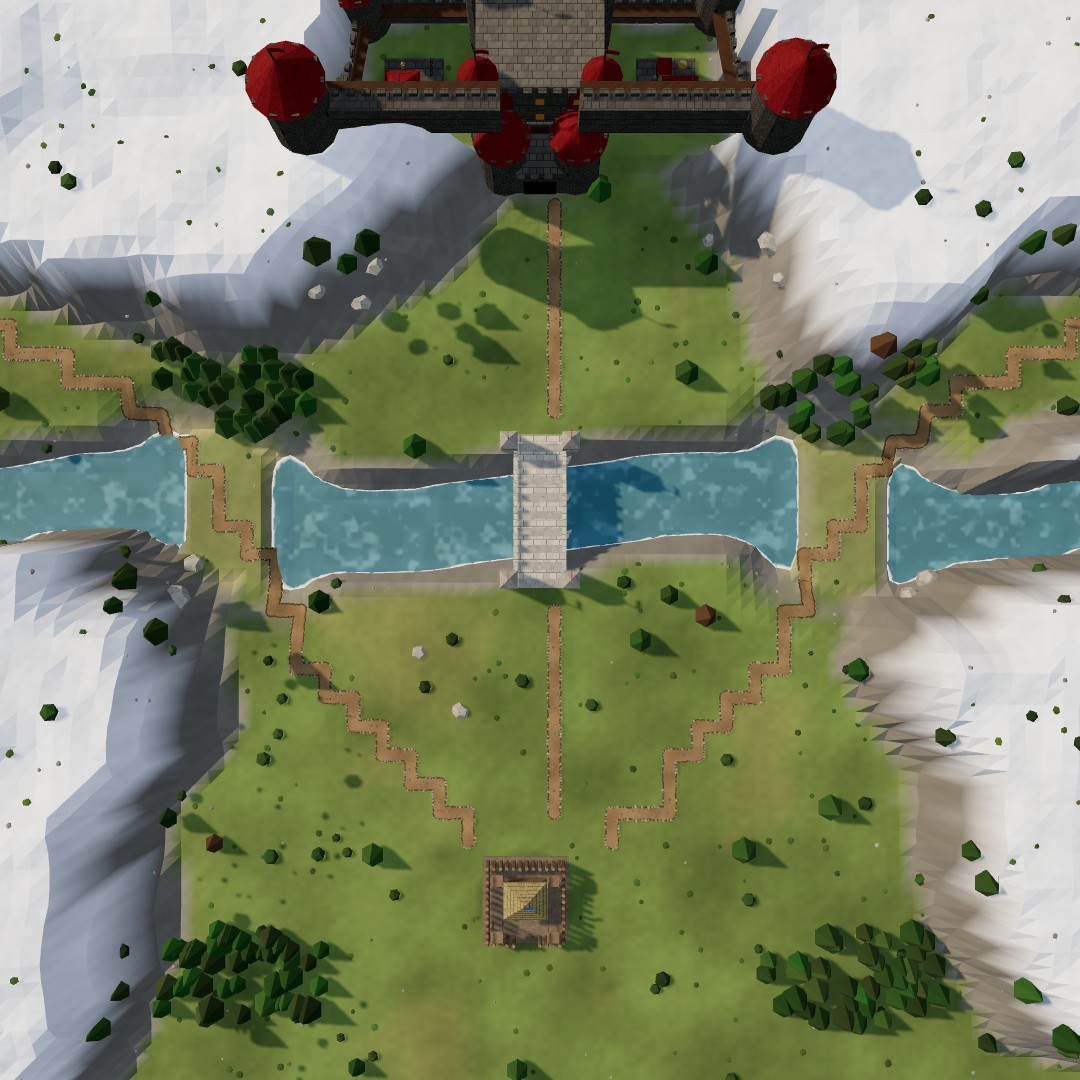
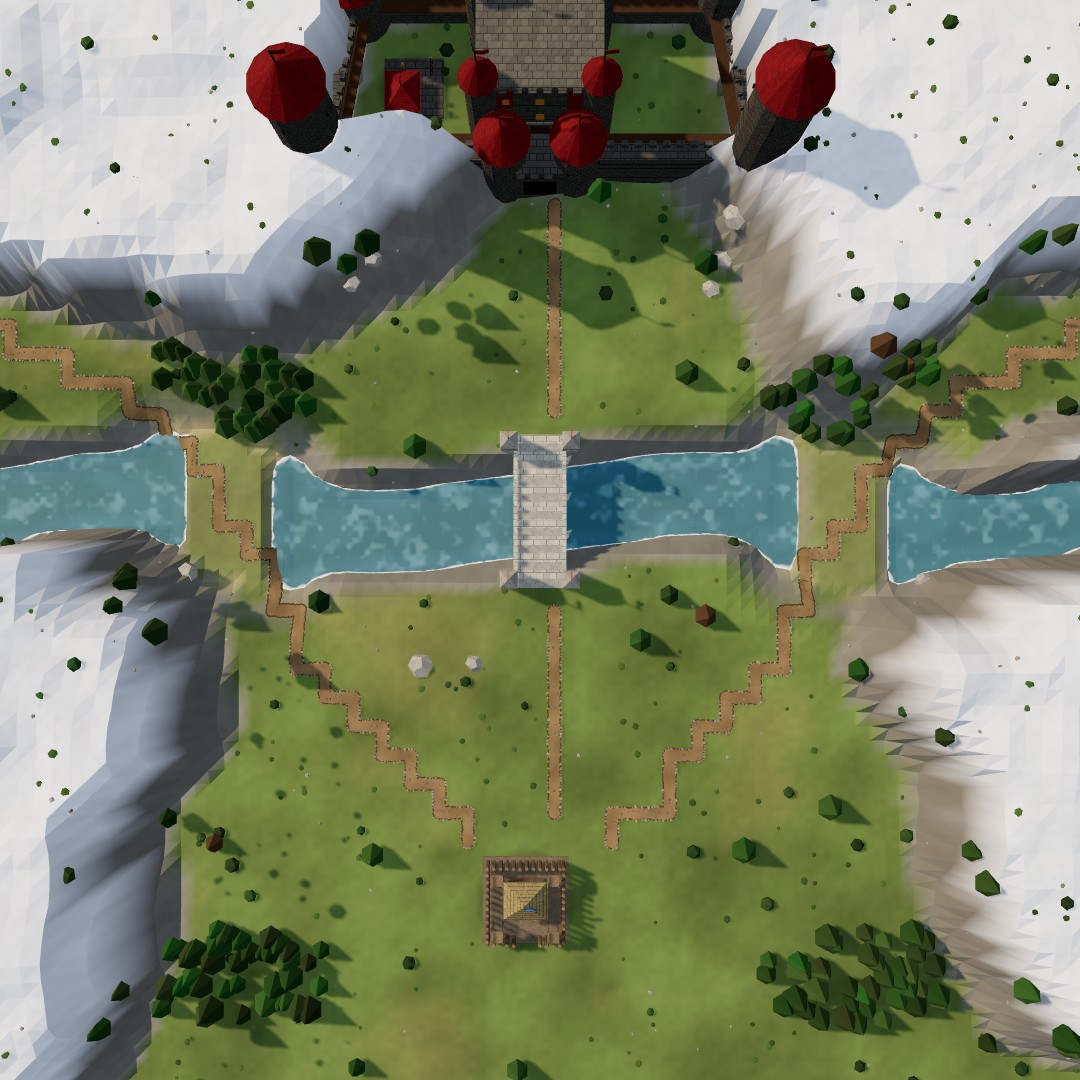
Warlord's Hold: walls, towers and keep reach the ground on the steep sides, no merlons cutting the roofs, stables removed
Claude-Session: https://claude.ai/code/session_01AE8sRRsVdpH9ETfQvtppox

diff --git a/index.html b/index.html
@@ -6776,37 +6776,46 @@ function buildRaiderKeep(g) {
 }
 function buildWarlordsHold(g) {
   const P = HOLD_POLY, [gx, gz] = HOLD_GATE, cx = 40, cz = 9.5, Y = (x, z) => hAt(x, z), y0 = Y(cx, cz);
+  // the hold stands on its crag's flat top, but its walls sit on the crag's edge where the ground falls away outside: every wall piece,
+  // tower and the keep reach down to the lowest ground under them (Jack saw the east side floating), their tops stay level
+  const low = (x, z, r) => { let m = Y(x, z); for (let i = 0; i < 12; i++) { const a = i / 12 * Math.PI * 2; for (const f of [.5, 1, 1.6]) m = Math.min(m, Y(x + Math.cos(a) * r * f, z + Math.sin(a) * r * f)); } return m - 1.2; };
+  const TOP = y0 + 4;   // the curtain walls' top all round
   const merlons = (ax, az, bx, bz, y, nx, nz) => { const L = Math.hypot(bx - ax, bz - az); for (let t = .45; t < L - .3; t += .9) { const x = ax + (bx - ax) * t / L - nx * .4, z = az + (bz - az) * t / L - nz * .4; const m = box(.5, .55, .32, M.stone, x, y + .27, z); m.rotation.y = -Math.atan2(bz - az, bx - ax); g.add(m); } };
-  const roundTower = (x, z, r, h, roof = true) => { const y = Y(x, z);
-    g.add(cyl(r, r * 1.08, h, 14, M.stone, x, y + h / 2 - .3, z)); g.add(cyl(r + .18, r + .12, .45, 14, M.stone2, x, y + h - .1, z));
-    for (let i = 0; i < 10; i++) { const a = i / 10 * Math.PI * 2; g.add(box(.42, .5, .3, M.stone, x + Math.cos(a) * (r + .05), y + h + .35, z + Math.sin(a) * (r + .05))); }
-    for (let i = 0; i < 4; i++) { const a = i / 4 * Math.PI * 2 + .4; g.add(box(.12, .55, .08, M.dark, x + Math.cos(a) * (r + .02), y + h * .55, z + Math.sin(a) * (r + .02))); }   // arrow slits
-    if (roof) { g.add(coneRoof(r + .35, r * 1.6, 14, M.roofBlue, x, y + h + .3 + r * .8, z)); roofFlag(g, x, y + h + .3 + r * 1.6, z, .6); } };
-  for (let i = 0; i < P.length; i++) {   // curtain walls of masonry with a wall-walk behind merlons
+  // round towers: from the lowest ground under them up to a level top; a roofed tower has no merlons (they poked through its cone)
+  const roundTower = (x, z, r, h, roof = true) => { const b = low(x, z, r + .3), top = Y(x, z) + h;
+    g.add(cyl(r, r * 1.08, top - b, 14, M.stone, x, (top + b) / 2, z)); g.add(cyl(r + .18, r + .12, .45, 14, M.stone2, x, top - .1, z));
+    if (!roof) for (let i = 0; i < 10; i++) { const a = i / 10 * Math.PI * 2; g.add(box(.42, .5, .3, M.stone, x + Math.cos(a) * (r + .05), top + .35, z + Math.sin(a) * (r + .05))); }
+    for (let i = 0; i < 4; i++) { const a = i / 4 * Math.PI * 2 + .4; g.add(box(.12, .55, .08, M.dark, x + Math.cos(a) * (r + .02), top - h * .45, z + Math.sin(a) * (r + .02))); }   // arrow slits
+    if (roof) { g.add(coneRoof(r + .35, r * 1.6, 14, M.roofBlue, x, top + .12 + r * .8, z)); roofFlag(g, x, top + .12 + r * 1.6, z, .6); } };
+  for (let i = 0; i < P.length; i++) {   // curtain walls of masonry with a wall-walk behind merlons, built in short pieces down to the ground
     const [ax, az] = P[i], [bx, bz] = P[(i + 1) % P.length], L = Math.hypot(bx - ax, bz - az), ux = (bx - ax) / L, uz = (bz - az) / L;
     let nx = -uz, nz = ux; if ((cx - ax) * nx + (cz - az) * nz < 0) { nx = -nx; nz = -nz; }
-    const y = Math.min(Y(ax, az), Y(bx, bz)), gapT = (gx - ax) * ux + (gz - az) * uz, onGate = Math.abs((gx - ax) * nx + (gz - az) * nz) < .5 && gapT > 0 && gapT < L;
+    const gapT = (gx - ax) * ux + (gz - az) * uz, onGate = Math.abs((gx - ax) * nx + (gz - az) * nz) < .5 && gapT > 0 && gapT < L;
     const runs = onGate ? [[0, gapT - 2.3], [gapT + 2.3, L]] : [[0, L]];
-    for (const [t0, t1] of runs) { const sx = ax + ux * t0, sz = az + uz * t0, ex = ax + ux * t1, ez = az + uz * t1;
-      along(g, sx, sz, ex, ez, 1.1, 4, M.stone, y - .4); merlons(sx, sz, ex, ez, y + 3.6, -nx, -nz);
-      along(g, sx + nx * .9, sz + nz * .9, ex + nx * .9, ez + nz * .9, .8, .1, DOOR_M[3], y + 3.1); }
+    for (const [t0, t1] of runs) {
+      const n = Math.max(1, Math.round((t1 - t0) / 1.5)), d = (t1 - t0) / n;
+      for (let k = 0; k < n; k++) { const ta = t0 + k * d, tb = ta + d, mx = ax + ux * (ta + tb) / 2, mz = az + uz * (ta + tb) / 2, b = low(mx, mz, 1.8);
+        along(g, ax + ux * ta, az + uz * ta, ax + ux * (tb + .02), az + uz * (tb + .02), 1.1, TOP - b, M.stone, b); }
+      const sx = ax + ux * t0, sz = az + uz * t0, ex = ax + ux * t1, ez = az + uz * t1;
+      merlons(sx, sz, ex, ez, TOP, -nx, -nz);
+      along(g, sx + nx * .9, sz + nz * .9, ex + nx * .9, ez + nz * .9, .8, .1, DOOR_M[3], TOP - .5); }
     roundTower(ax, az, 1.9, 6.4);
   }
   // the gatehouse: two round towers either side of an arched passage, a portcullis
   for (const sx of [-1, 1]) roundTower(gx + sx * 2.4, gz, 1.5, 6.8);
-  { const y = Y(gx, gz); g.add(box(3.4, 4.6, 2.6, M.stone, gx, y + 2, gz)); g.add(box(2.2, 2.8, 2.7, M.dark, gx, y + 1.1, gz + .02));
+  { const y = Y(gx, gz), b = low(gx, gz, 1.6); g.add(box(3.4, y + 4.3 - b, 2.6, M.stone, gx, (y + 4.3 + b) / 2, gz)); g.add(box(2.2, 2.8, 2.7, M.dark, gx, y + 1.1, gz + .02));
     for (let k = -.8; k <= .81; k += .4) g.add(box(.06, 2.6, .06, M.iron, gx + k, y + 1.2, gz + 1.32)); g.add(box(2, .08, .06, M.iron, gx, y + 1.9, gz + 1.32));
     merlons(gx - 1.7, gz + 1.25, gx + 1.7, gz + 1.25, y + 4.3, 0, -1); }
   // the keep: a tall masonry block, four corner turrets with cone roofs, two rows of windows, a framed door, hanging banners
-  g.add(box(7.4, 9.5, 6.2, M.stone, cx, y0 + 4.5, cz));
-  g.add(box(7.8, .4, 6.6, M.stone2, cx, y0 + 9.3, cz)); merlons(cx - 3.9, cz + 3.3, cx + 3.9, cz + 3.3, y0 + 9.5, 0, -1); merlons(cx - 3.9, cz - 3.3, cx + 3.9, cz - 3.3, y0 + 9.5, 0, 1);
-  for (const [dx, dz] of [[-1, -1], [1, -1], [-1, 1], [1, 1]]) { const tx = cx + dx * 3.7, tz = cz + dz * 3.1;
-    g.add(cyl(.95, 1, 11, 12, M.stone, tx, y0 + 5.2, tz)); g.add(coneRoof(1.25, 2.4, 12, M.roofBlue, tx, y0 + 11.9, tz)); roofFlag(g, tx, y0 + 13.1, tz, .6); }
+  { const b = low(cx, cz, 3.8); g.add(box(7.4, y0 + 9.3 - b, 6.2, M.stone, cx, (y0 + 9.3 + b) / 2, cz)); }
+  g.add(box(7.8, .4, 6.6, M.stone2, cx, y0 + 9.3, cz)); merlons(cx - 2.7, cz + 3.3, cx + 2.7, cz + 3.3, y0 + 9.5, 0, -1); merlons(cx - 2.7, cz - 3.3, cx + 2.7, cz - 3.3, y0 + 9.5, 0, 1);
+  for (const [dx, dz] of [[-1, -1], [1, -1], [-1, 1], [1, 1]]) { const tx = cx + dx * 3.7, tz = cz + dz * 3.1, b = low(tx, tz, 1);
+    g.add(cyl(.95, 1, y0 + 10.7 - b, 12, M.stone, tx, (y0 + 10.7 + b) / 2, tz)); g.add(coneRoof(1.25, 2.4, 12, M.roofBlue, tx, y0 + 11.9, tz)); roofFlag(g, tx, y0 + 13.1, tz, .6); }
   for (const r of [3.6, 6.4]) for (const k of [-2.2, 0, 2.2]) g.add(box(.55, .9, .06, M.glow, cx + k, y0 + r, cz + 3.12));
   g.add(box(1.3, 2.1, .1, DOOR_M[3], cx, y0 + 1.05, cz + 3.13)); for (const sx of [-1, 1]) g.add(box(.25, 2.4, .25, M.stone2, cx + sx * .8, y0 + 1.2, cz + 3.15)); g.add(box(1.85, .3, .3, M.stone2, cx, y0 + 2.4, cz + 3.15));
   for (const sx of [-1, 1]) { const b = box(1, 3, .05, M.flag, cx + sx * 2.2, y0 + 6.8, cz + 3.15); b.castShadow = true; g.add(b); }
-  // inside the walls: the town's garrison and royal stables
-  placeModel(g, 'barracks', 3, 31.5, 9.5, 1, Math.PI / 2); placeModel(g, 'stables', 3, 48.5, 9.5, 1, -Math.PI / 2);
+  // inside the walls: the town's garrison (the royal stables were dropped: Jack)
+  placeModel(g, 'barracks', 3, 31.5, 9.5, 1, Math.PI / 2);
 }
 function placeBossScenery() {
   if (bossMesh) { scene.remove(bossMesh); bossMesh = null; }

diff --git a/CLAUDE.md b/CLAUDE.md
@@ -81,7 +81,7 @@ The whole game is currently one self-contained file: `index.html` (~165 KB, thre
 - **Map size per stage** (`MAP_N`, `setMapSize(n)` at the top of `startGame`): every stage is 28 × 28 cells (56 m) except the boss stages, 40 × 40 (80 m; Jack asked for them big). `N`, `SIZE` and `V` are `let`; every buffer is allocated once at the largest size (`N_MAX` 40, `V_MAX` 81: heights, cells, regions, bridges, the tree and path-stone instances) and indexed with the current `N`/`V`; on a size change `setMapSize` re-lays the ground's vertex grid and triangles (`terrainGrid`), the Grid overlay (`gridLines`), the water plane, the sun and its shadow box, and `CAM_LIM.hi`. The water's bed texture `hTex` is always `V_MAX` wide (the shader divides by `V_MAX`).
 - **Bosses** (`ENEMY.chief`, `ENEMY.warlord`, `boss`: drawn that much bigger; always sent at tier 3; renders in `design/characters/bosses.png`): the **Raider Chief** on foot (hp 520 × 2.3, dmg 14 × 1.65, a sword and a big red round shield, a horned helm with a gold band, a long red cloak) and the **Warlord** mounted (hp 820 × 2.3, dmg 18 × 1.65, ×2 speed, a gold crown of points and a red plume on the great helm, a red heater shield rimmed in gold, the cloak, a horse in dark barding with red flank cloths and a gilded face plate); gear from `bossGear`. Both ride or march for the castle (`pickTarget`), come last of their night's column (`startNight`), get a bigger health bar, and their arrival shows a banner with their name and "Boss" and a log line. Gallery row "Bosses" (drawn at their own size).
 - **Raider Keep** (`MAP` 'keep', Stage 11, boss, 80 m; from `design/stages/stage11-raider-keep.svg`): the raiders' keep at the top (`KEEP_POLY`, a six-sided yard on a rocky rise, gate at `KEEP_GATE`): the first layout's shape (Jack liked it) in the detail of the town's buildings (`buildRaiderKeep`, from `placeBossScenery`): sharpened palisade logs with rails and a wall-walk inside, the town's lookout tower at every corner, the town's timber gate (×1.5) flanked by two lookouts, a great tower (masonry with buttresses, a jettied timber-framed storey with windows, a shingled pyramid roof, a door, a roof flag), a log hall with a gable roof and a chimney, and the town's weapon racks, campfire and siege stores in the yard; everything darkened (`darkFort`: cloned materials × .26 linear, about half as bright on screen, the town's blue turned red; see-through flames left alone; cached in `darkMats`), so it never reads as the player's, a dry ditch below it open only at the gate (`KEEP_DITCH`), two roads from the gate round the burned village (`KEEP_RUINS`, blackened wall stubs) and dead trees (`bare` trees: trunks only, out of reach) to the town at the bottom (castle `KX/KZ` 41,67); ground red in the north, scorched in the middle, green in the south (`recolor`); green woods in the two south corners, plenty of stone. The keep, its yard and the ruins are scenery nobody walks or builds on (`sceneryAt`, in `canStand`, `cellPass`, `evaluate` "Occupied"). Raiders come round both sides of the fort (Jack: spawns west and east of it, 40% each) and a few out of its gate. Rules (`MAP_RULES.keep`): **7 nights** after a **10-minute first day** (Jack), 20–75 raiders a night with siege from night 3, the **Raider Chief** at the tail of night 7; days 600/120…; spawn gap .8 s; start gold 50 wood 30 stone 0 food 30; every building, tier 3 (win: survive; "break the keep" not built).
-- **Warlord's Hold** (`MAP` 'hold', Stage 12, final boss, 80 m; from `design/stages/stage12-warlords-hold.svg`): snowy mountains round the north and both sides (`HOLD_MTNS`, closed ground like Mountain pass's: `holdOpen` in `mapOpen`; snow from about 10.5 m on this map in `recolor`), the Warlord's hold on a crag at the top (`HOLD_POLY`, gate at `HOLD_GATE`; `buildWarlordsHold`): masonry curtain walls with merlons and a timber wall-walk, round corner towers (arrow slits, merlon crowns, cone roofs, roof flags), a gatehouse of two round towers round a dark arched passage with a portcullis, a tall keep with four cone-roofed corner turrets, two rows of windows, a framed door and hanging banners, and the town's tier-3 garrison and royal stables inside; darkened by `darkFort` (blue roofs and flags turn red), a river across the middle (`HOLD_RIVER`, flows west) with a **grand stone bridge** on the gate's road (`grand: true`, `w` 3.2: a wider deck, units walk all of it (`onDeck` reads `b.w`), tall stone towers with red flags at both ends, merlons on the parapets) and two plain land crossings where the passes cross (`HOLD_ICE`, wide grassy bars at .6 with gentle banks; they were icy white at first, Jack wanted a normal pathway), two mountain passes from the side edges (`HOLD_PASSES`), pines on the lower slopes and in the south corners (out-of-reach pines up the mountains), stone at the mountains' feet; castle `KX/KZ` 39,65. Raiders out of the hold's gate; from night 3 some down the west pass, from night 4 the east too. Rules (`MAP_RULES.hold`): **7 nights** after a **10-minute first day**, the **Warlord** and eight tier-3 horse swords (his mounted guard) on night 7; days 600/120…; spawn gap .75 s; start gold 50 wood 30 stone 0 food 30; every building, tier 3.
+- **Warlord's Hold** (`MAP` 'hold', Stage 12, final boss, 80 m; from `design/stages/stage12-warlords-hold.svg`): snowy mountains round the north and both sides (`HOLD_MTNS`, closed ground like Mountain pass's: `holdOpen` in `mapOpen`; snow from about 10.5 m on this map in `recolor`), the Warlord's hold on a crag at the top (`HOLD_POLY`, gate at `HOLD_GATE`; `buildWarlordsHold`): masonry curtain walls with merlons and a timber wall-walk, round corner towers (arrow slits, merlon crowns, cone roofs, roof flags), a gatehouse of two round towers round a dark arched passage with a portcullis, a tall keep with four cone-roofed corner turrets, two rows of windows, a framed door and hanging banners, and the town's tier-3 garrison inside (the royal stables were dropped: Jack); every wall piece (1.5 m sections), tower, the gatehouse and the keep reach down to the lowest ground under and just outside them (`low`), with level tops (`TOP`), so nothing floats where the crag falls away (Jack saw the east side floating); roofed towers have no merlons (they cut through the cones) and the keep's merlons stop short of its corner turrets; darkened by `darkFort` (blue roofs and flags turn red), a river across the middle (`HOLD_RIVER`, flows west) with a **grand stone bridge** on the gate's road (`grand: true`, `w` 3.2: a wider deck, units walk all of it (`onDeck` reads `b.w`), tall stone towers with red flags at both ends, merlons on the parapets) and two plain land crossings where the passes cross (`HOLD_ICE`, wide grassy bars at .6 with gentle banks; they were icy white at first, Jack wanted a normal pathway), two mountain passes from the side edges (`HOLD_PASSES`), pines on the lower slopes and in the south corners (out-of-reach pines up the mountains), stone at the mountains' feet; castle `KX/KZ` 39,65. Raiders out of the hold's gate; from night 3 some down the west pass, from night 4 the east too. Rules (`MAP_RULES.hold`): **7 nights** after a **10-minute first day**, the **Warlord** and eight tier-3 horse swords (his mounted guard) on night 7; days 600/120…; spawn gap .75 s; start gold 50 wood 30 stone 0 food 30; every building, tier 3.
 - **Stage town picker** (Jack's design): a stage with more decor unlocked than `DECOR_PICK`, or both buildings of a pair unlocked (`stageBoth`, picks in `localStorage['mtd-stage-pair']`, `STAGE_PAIR`, `stagePair`) (`stagePicks(map)`: Watchhill on) opens the Choose-your-town screen from its preview's Play (`showLoadPick(map)`, `stagePick`): its buildings are set (the unlocked one of each pair picked, the other locked), the decor it has unlocked are picked four of, and everything not unlocked yet shows only a padlock, no name, icon or cost (Jack's call; `LOCK_ICO`, `.ldOpt.locked`, a tap knocks `nope`); Back returns to the stage preview, Start plays. Picks per stage in `localStorage['mtd-stage-decor']` (`STAGE_DECOR`, `stageDecor(map)`: by default the newest four); `applyLoadout` trims the stage's decor to them (in `cats` order), so `?map=watch` uses them too.
 - **Tiers by stage** (`maxTier` in `CAMP_MAPS`, `tierCap()`): Stages 1–3 stay at tier 1 (no Upgrade button, `upgrade` refuses; Stage 1's guide drops its upgrade step), Stage 4 opens tier 2 (Jack moved it from Stage 3; `newTier: 2` adds a "Tier 2" card after its building cards: "Upgrades" only (the house / gold / archer before → after examples were dropped: Jack)); free play has all three.
 - Raiders pick targets by walking distance, never a straight line across water (`pickTarget` → `reachTarget`: `landField` is a breadth-first cell count over land and bridges, buildings counted as open since they break through; unreachable buildings are skipped) and route on the cell grid with `walkTo` (mode 2) toward a fixed point on the side they reach first (`e.tp`, reset on each 3 s retarget); when buildings or walls close every route, `walkTo` falls back to a mode-3 path (`cellPass` mode 3 ignores occupancy) so they walk to whatever blocks the way and break it (they used to walk straight at the target and stand at a riverbank on River isle); straight `steer` only within 3 m and over open ground (`clearLine`); `edgePoint` falls back to mode-3 routes for a walled-in town; a wall in the way (stuck or 3.5 s without progress) is attacked as before. A raider spawned a metre or so from its point never lands on ground it can't stand on (`spawnEnemy` falls back to the point itself). Spawn points (`edgePoint`) must be walkable (`cellPass` mode 2) and have a route to the castle's door (a route to the castle's centre never exists: it is inside the building), else raiders spawned on steep edge hills stood stuck.
